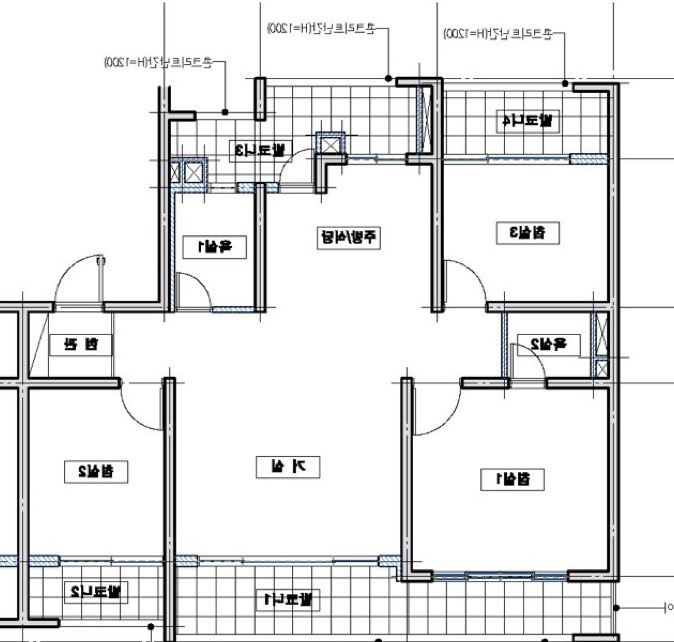
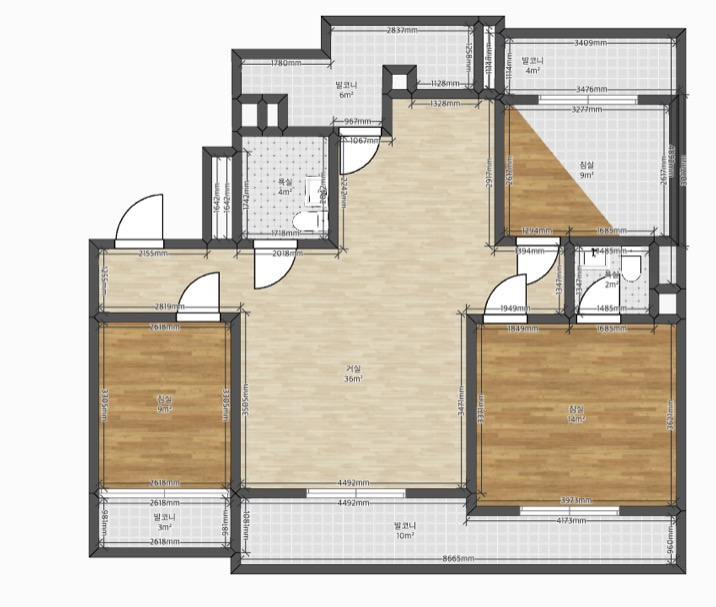
fix: align entry and bedroom doors to ohouse plan

diff --git a/app/Studio.tsx b/app/Studio.tsx
@@ -108,11 +108,12 @@ const WALLS: WallSpec[] = [
   { x: 3.75, z: 1.6, w: 1.9, d: .16 },
 
   // 현관: 외부 현관문 → 현관 → 우측 유리 중문 → 복도
-  { x: .55, z: 4.53, w: 1.1, d: .16 },
-  { x: 2.4, z: 4.53, w: .8, d: .16 },
-  { x: 1.4, z: 6.04, w: 2.8, d: .14 },
-  { x: 2.8, z: 4.79, w: .14, d: .52 },
-  { x: 2.8, z: 5.97, w: .28, d: .14 },
+  { x: .075, z: 4.53, w: .15, d: .16 },
+  { x: 2, z: 4.53, w: 1.6, d: .16 },
+  { x: .925, z: 6.04, w: 1.85, d: .14 },
+  { x: 2.825, z: 6.04, w: .15, d: .14 },
+  { x: 2.8, z: 4.59, w: .14, d: .12 },
+  { x: 2.8, z: 5.8, w: .14, d: .49 },
 
   // 욕실1, 주방, 침실3
   { x: 4.7, z: 3.07, w: .14, d: 2.93 },
@@ -127,11 +128,13 @@ const WALLS: WallSpec[] = [
   { x: 9.8, z: 6.04, w: .2, d: .14 },
   { x: 11.2, z: 6.04, w: 1, d: .14 },
 
-  // 하부 세 공간의 경계. 확장부까지 같은 벽선으로 연장한다.
-  { x: 2.9, z: 6.12, w: .14, d: .16 },
-  { x: 2.9, z: 9.09, w: .14, d: 4.17 },
-  { x: 7.6, z: 6.12, w: .14, d: .16 },
-  { x: 7.6, z: 9.09, w: .14, d: 4.17 },
+  // 침실1 출입구는 도면처럼 상부 벽에 배치
+  { x: 7.675, z: 6.04, w: .15, d: .14 },
+  { x: 9.175, z: 6.04, w: 1.05, d: .14 },
+
+  // 하부 세 공간의 경계. 방문은 상부 벽에 있고 세로 벽은 확장부까지 연속된다.
+  { x: 2.9, z: 8.61, w: .14, d: 5.13 },
+  { x: 7.6, z: 8.61, w: .14, d: 5.13 },
 
   // 상부 발코니 창호와 확장된 전면 외창
   { x: 5.65, z: 1.6, w: 1.9, d: .1, height: .92, y: .46, material: "glass" },
@@ -310,12 +313,12 @@ function ApartmentScene({ finish, view, items, selectedId, onSelect, showReferen
           return <Wall key={index} position={[planX(segment.x), segment.y ?? height / 2, planZ(segment.z)]} size={[segment.w, height, segment.d]} color={segment.material === "glass" ? "#b9d1d3" : wall} />;
         })}
       </group>
-      <DoorOpening x={1.1} z={4.53} axis="horizontal" width={.9} rotation={0} wallColor={wall} />
-      <MiddleDoor x={2.8} z={5.05} width={.85} wallColor={wall} />
-      <DoorOpening x={2.9} z={6.2} axis="vertical" width={.8} rotation={-Math.PI / 2} wallColor={wall} />
+      <DoorOpening x={.15} z={4.53} axis="horizontal" width={1.05} rotation={0} wallColor={wall} />
+      <MiddleDoor x={2.8} z={4.65} width={.9} wallColor={wall} />
+      <DoorOpening x={1.85} z={6.04} axis="horizontal" width={.9} rotation={0} wallColor={wall} />
       <DoorOpening x={3.24} z={4.53} axis="horizontal" width={.66} rotation={0} wallColor={wall} />
       <DoorOpening x={8.48} z={4.53} axis="horizontal" width={.76} rotation={0} wallColor={wall} />
-      <DoorOpening x={7.6} z={6.2} axis="vertical" width={.8} rotation={-Math.PI / 2} wallColor={wall} />
+      <DoorOpening x={7.75} z={6.04} axis="horizontal" width={.9} rotation={0} wallColor={wall} />
       <DoorOpening x={9.9} z={6.04} axis="horizontal" width={.8} rotation={0} wallColor={wall} />
       <MasterBathFixtures />
       {items.map((item) => <FurnitureModel key={item.id} item={item} selected={selectedId === item.id} onSelect={() => onSelect(item.id)} />)}
